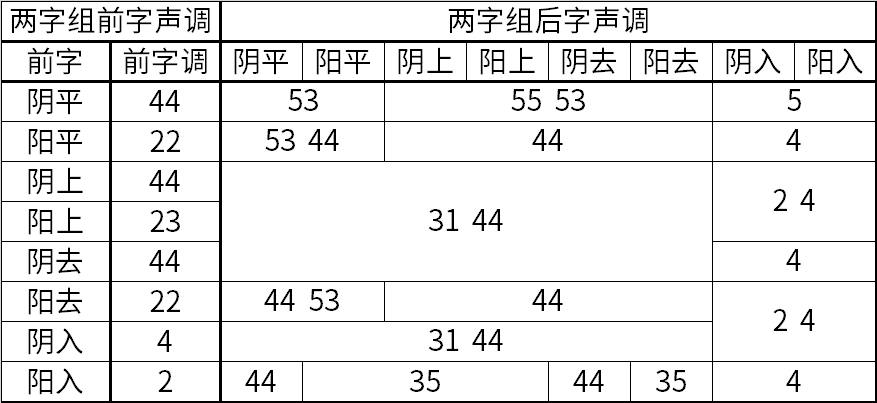
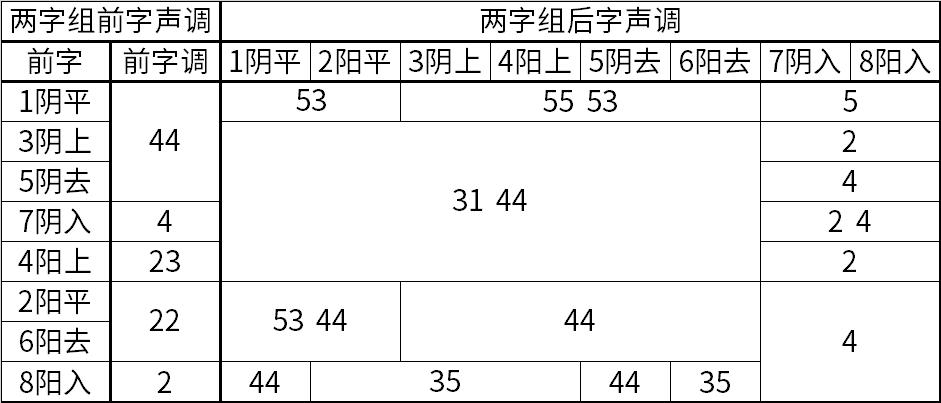
update 连读变调

diff --git a/声调/连读变调.md b/声调/连读变调.md
@@ -2,7 +2,7 @@
 
 宁波话有连读变调，一个字的声调在词语中会发生变化。宁波话的连读变调比较复杂，在拼音方案里没有标多字调方法，如果一定要标变调的话，可以直接用五度标调法的数字来表示。
 
-下面是宁波话老派两字组的连读变调。最左列是前字的调类，第二列是变调时前字的声调，用五度标调法表示。后面几列是两字组后字的声调。有些组合后字有两种可能的声调。
+由于变调的复杂性，不同的资料有不同的记录，不同人在说同一个词语的时候变调也可能不同。下面的表格是老派宁波话的两字组变调，参照了江苏教育版《寧波方言詞典》的引言和正文。最左列是前字的调类，第二列是变调时前字的声调，用五度标调法表示。后面几列是两字组后字的声调。有些组合后字有两种可能的声调。
 
 ![两字组变调](两字组变调.png)
 
@@ -12,11 +12,11 @@
 
 下面举一些例子。
 
-阴平+平：乌青u44 chin53
+阴平+平：乌青u44 chin53，金黄cin44 waon53
 
-阴平+上、去：辛苦shin44 khu55，安静ei44 zhin55，资本tsy44 pen53，亲眼chin44 ngae53，相信shian44 shin55，方便faon44 bi55，仓库tshaon44 khu53，兄弟shion44 di53
+阴平+上、去：舢板sae44 pae55，花絮huo44 shi55，方便faon44 bi55，推板tei44 pae53，番薯fae44 zyu53，兄弟shion44 di53
 
-阴平+入：资格tsy44 kaq5，单独tae44 doq5
+阴平+入：心急shin44 ciq5，生日san44 gniq5
 
 阳平+平：梅花mei22 huo53，蚊虫men22 dzon53，农村non22 tshen44，团圆doe22 yu44
 
@@ -28,29 +28,31 @@
 
 阴上+入：粉笔fen44 piq2，水闸syu44 zaq2
 
-阳上+舒：淡包dae23 pau31，象棋zhian23 ji31，稻草tau23 tshau31，电脑di23 nau31，马路mo23 lu31，雨衣yu23 i44，野蛮ya23 mae44，户口wu23 kheu44，米桶mi23 don44
+阳上+舒：淡包dae23 pau31，象棋zhian23 ji31，稻草tau23 tshau31，电脑di23 nau31，马路mo23 lu31，雨衣yu23 i44，项圈ghaon23 chiu44，米桶mi23 don44
 
-阳上+入：
+阳上+入：米色mi23 saq2，每日mei23 gniq2
 
-阴去+舒：
+阴去+舒：酱油cian44 yeu44，戏文shi44 ven44，细巧shi44 chiau44，看护khi44 wu44，苋菜hae44 tshe44，告示kau44 zy44，看张khi44 cian31，衬头tshen44 deu31，兔子thu44 tsy31
 
-阴去+入：
+阴去+入：记得ci44 taq4，快活khua44 waq4
 
-阳去+平：自家zhi22 ko44，汗衫ghei22 sae53
+阳去+平：自家zhi22 ko44，外婆nga22 bou44，汗衫ghei22 sae53，大红da22 gnon53
 
-阳去+上、去：地板di22 pae44，地壤di22 gnian44，饭店vae22 ti44
+阳去+上、去：地板di22 pae44，地壤di22 gnian44，饭店vae22 ti44，大字da22 zy44
 
-阳去+入：
+阳去+入：闹热nau22 gniq4，腐竹vu22 tsoq4
 
-阴入+舒：
+阴入+舒：黑心haq4 shin31，足球tsoq4 jieu31，铁轨thiq4 kuei31，结棍ciq4 kuen31，八千paq4 chi44，壳子khoq4 tsy44，桌凳tsoq4 ten44
 
-阴入+入：
+阴入+入：百脚paq4 ciaq2，八十paq4 zyuq2，压末aq4 maq4
 
-阳入+阴平、阴去：石头zaq2 deu35
+阳入+阴平、阴去：薄刀boq2 tau44，药店yaq2 ti44
 
-阳入+阳平、上声、阳去：
+阳入+阳平、上声、阳去：钥匙yaq2 zy35，席子zhiq2 tsy35，木耳moq2 er35，月亮yuq2 lian35
 
-阳入+入：日脚gniq2 ciaq4
+阳入+入：服帖voq2 thiaq4，日脚gniq2 ciaq4
+
+
 
 另外，在动宾式短语中，后字不变调，前字阴调变为33（舒声）和3（入声），阳调变为22（舒声）和2（入声）。例如：剃头thi33 deu24，游河yeu22 ghou24。
 
